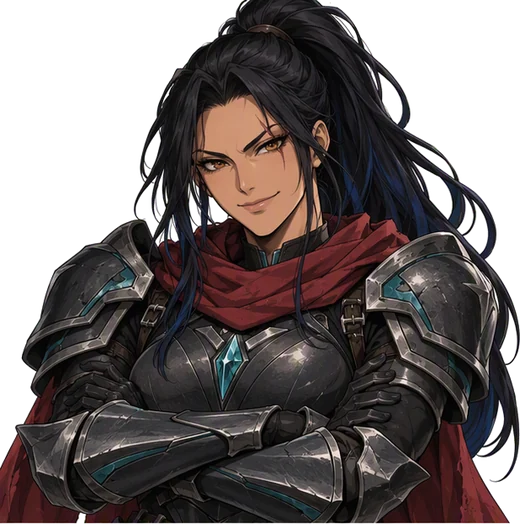
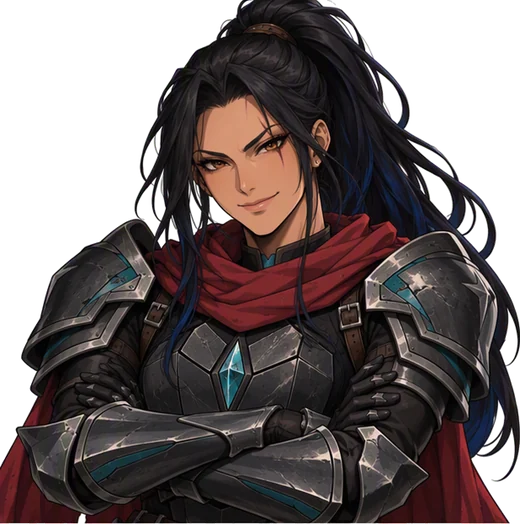
Neue Leona-Bilder (andere Rüstung) und neues App-Symbol
Claude-Session: https://claude.ai/code/session_011Xd9JxnCHEYBS9DLSzndHq

diff --git a/sw.js b/sw.js
@@ -1,5 +1,5 @@
 // Offline-Unterstützung: App-Dateien werden zwischengespeichert.
-const CACHE = 'bunter-kalender-v17';
+const CACHE = 'bunter-kalender-v18';
 const FILES = ['./', 'index.html', 'manifest.webmanifest', 'icon-192.png', 'icon-512.png', 'apple-touch-icon.png', 'leona-smirk.webp', 'leona-cheer.webp', 'leona-wink.webp', 'leona-calm.webp'];
 self.addEventListener('install', e => {
   e.waitUntil(caches.open(CACHE).then(c => c.addAll(FILES)).then(() => self.skipWaiting()));
